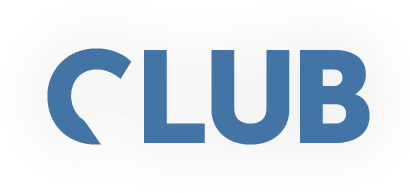
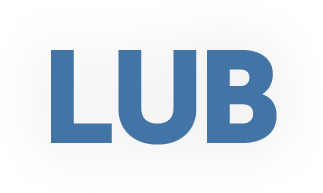
모바일 메인 애니메이션 추가

Changed region(s): [[0.0929, 0.2487, 0.9288, 0.7772]]

diff --git a/m/css/style.css b/m/css/style.css
@@ -357,10 +357,57 @@ input[type="checkbox"]:focus {
 .content.main .visual-wrap .front {
 /*	top: 40%;*/
 	top: 35%;
-	width: 54.6%;
-	margin-left: 46%;
+/*	width: 54.6%;*/
+	width: 43%;
+/*	margin-left: 46%;*/
+	margin-left: 58.2%;
 	z-index: 3;
 }
+
+.content.main #title-c-head {
+	width: 12%;
+/*	height: 72px;*/
+	top: 41.5%;
+	left: 52%;
+	z-index: 3;
+}
+.content.main #title-c-head .title-c {
+	stroke-dasharray: 300;
+	stroke-dashoffset: 300;
+	-webkit-transition: all 1.33s linear 0.1s;
+	transition: all 1.33s linear 0.1s;
+}
+.content.main #title-c-tail {
+	width: 11.4%;
+/*	height: 36px;*/
+	top: 50.2%;
+	left: 52.4%;
+	z-index: 1;
+}
+.content.main #title-c-tail .title-c {
+	stroke-dasharray: 100;
+	stroke-dashoffset: 100;
+	-webkit-transition: all 0.5s linear 1.1s;
+	transition: all 0.5s linear 1.1s;
+}
+.all-load .title-c {
+	stroke-dashoffset: 0 !important;
+}
+.content.main .visual-wrap .title,
+.content.main .visual-wrap .text-group {
+	opacity: 0;
+	-webkit-transform: translateY(30px);
+	transform: translateY(30px);
+	-webkit-transition: all 1.15s ease;
+	transition: all 1.15s ease;
+}
+.all-load .content.main .visual-wrap .title,
+.all-load .content.main .visual-wrap .text-group {
+	opacity: 1;
+	-webkit-transform: translateY(0);
+	transform: translateY(0);
+}
+
 .content.main .visual-wrap .text-group {
 	position: absolute;
 	top: 21.4%;
@@ -393,6 +440,17 @@ input[type="checkbox"]:focus {
 /*	top: 100%;*/
 	width: 45.2%;
 	z-index: 10;
+	opacity: 0;
+	-webkit-transform: translateX(10px);
+	transform: translateX(10px);
+	-webkit-transition: all 1.34s ease 1.2s;
+	transition: all 1.34s ease 1.2s;
+}
+.all-load .content.main .btn-group {
+	opacity: 1;
+	-webkit-transform: translateX(0);
+	transform: translateX(0);
+
 }
 .content.main .btn-group button {
 	display: block;

diff --git a/m/index.php b/m/index.php
@@ -76,6 +76,10 @@
 								<p>바이오더마 PT클럽에서는<br>당신의 스킨에<br>가장 알맞은 PT를 제공합니다</p>
 							</div>
 						</div>
+						
+						<svg id="title-c-head" class="title-c-group" xmlns="http://www.w3.org/2000/svg" viewBox="0 0 176 147"><defs><style>.title-c.head{fill:none;stroke:#4075a9;stroke-miterlimit:10;stroke-width:43px;}</style></defs><path class="title-c head" d="M258.43,104.6s-36.58-36.82-83-24.5c-56.49,15-66.5,74.82-47,113" transform="translate(-97 -56)"/></svg>
+						<svg id="title-c-tail" class="title-c-group" xmlns="http://www.w3.org/2000/svg" viewBox="0 0 169 72"><defs><style>.title-c.tail{fill:none;stroke:#4075a9;stroke-miterlimit:10;stroke-width:43px;}</style></defs><path class="title-c tail" d="M121.56,138.78c17.19,37.19,75.13,64.66,134.63,11.86" transform="translate(-102 -129)"/></svg>
+						
 					</div>
 					<div class="btn-group">
 						<button type="button" onclick="location.href='gate.php'"><span>스킨 PT 시작</span></button>
@@ -88,6 +92,11 @@
 			</div>
 		</div>
 		<script type="text/javascript">
+			$(window).on('load', function() {
+				setTimeout(function() {
+					$('html').addClass('all-load');
+				}, 1000);
+			});
 			var svg1 = document.getElementById("svg-shape1");
 			var svg2 = document.getElementById("svg-shape2");
 			var s1 = Snap(svg1);
@@ -115,35 +124,35 @@
 				}, 1600);
 			}
 
-			(function($){
-				var x;
-				var y;
-				var waves = $('.wave').each(function(){
-					this.np = 0;
-					this.ep = 0;
-					this.yp = 0;
-					this.lv = this.getAttribute('data-wave')*1;
-				});
-				function move(){
-					this.ep = this.lv*x;
-					this.yp = this.lv*y;
-				}
-				function loop() {
-					this.np = this.np + (this.ep - this.np)*0.1;
-					this.yp = this.yp + (this.yp - this.yp)*0.1;
-					this.style.transform = "translate("+this.np+'px'+", "+this.yp+'px'+")";
-					//			this.style.transform = "translate("+this.np+'px'+")";
-				}
-				$(window).on('mousemove', function(e){
-					x = (e.clientX - $(window).width()/2) / 50;
-					y = (e.clientY - $(window).height()/2) / 50;
-					waves.each(move);
-				});
-
-				setInterval(function(){
-					waves.each(loop);
-				},33);
-			})(jQuery);
+//			(function($){
+//				var x;
+//				var y;
+//				var waves = $('.wave').each(function(){
+//					this.np = 0;
+//					this.ep = 0;
+//					this.yp = 0;
+//					this.lv = this.getAttribute('data-wave')*1;
+//				});
+//				function move(){
+//					this.ep = this.lv*x;
+//					this.yp = this.lv*y;
+//				}
+//				function loop() {
+//					this.np = this.np + (this.ep - this.np)*0.1;
+//					this.yp = this.yp + (this.yp - this.yp)*0.1;
+//					this.style.transform = "translate("+this.np+'px'+", "+this.yp+'px'+")";
+//					//			this.style.transform = "translate("+this.np+'px'+")";
+//				}
+//				$(window).on('mousemove', function(e){
+//					x = (e.clientX - $(window).width()/2) / 50;
+//					y = (e.clientY - $(window).height()/2) / 50;
+//					waves.each(move);
+//				});
+//
+//				setInterval(function(){
+//					waves.each(loop);
+//				},33);
+//			})(jQuery);
 
 			
 			$('.burger').on('click', function() {
